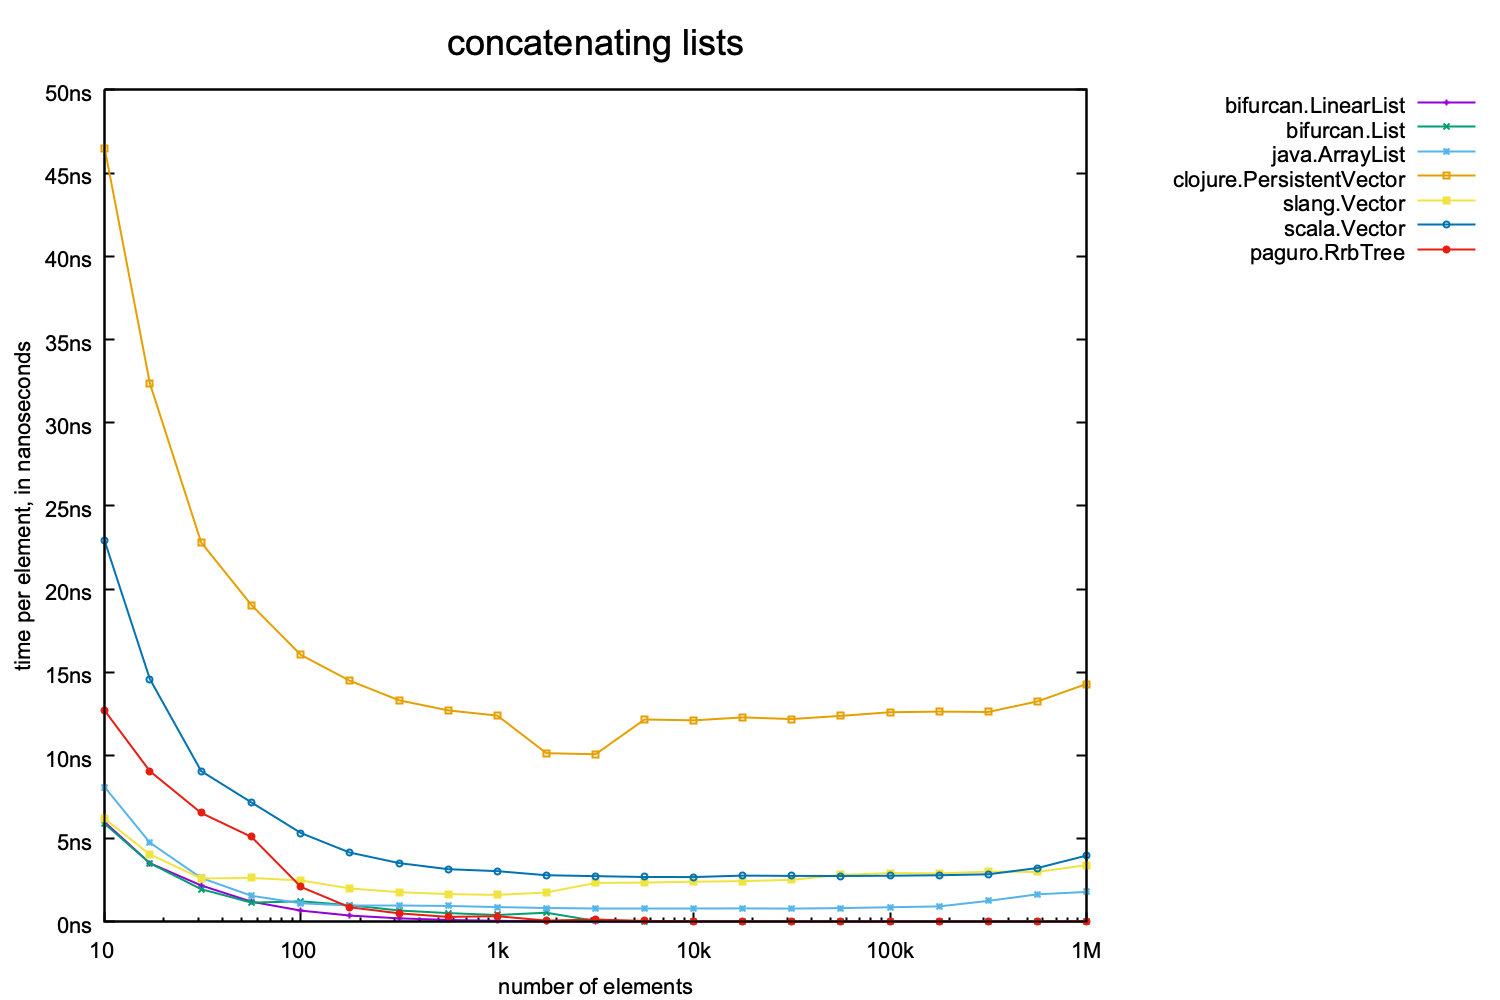
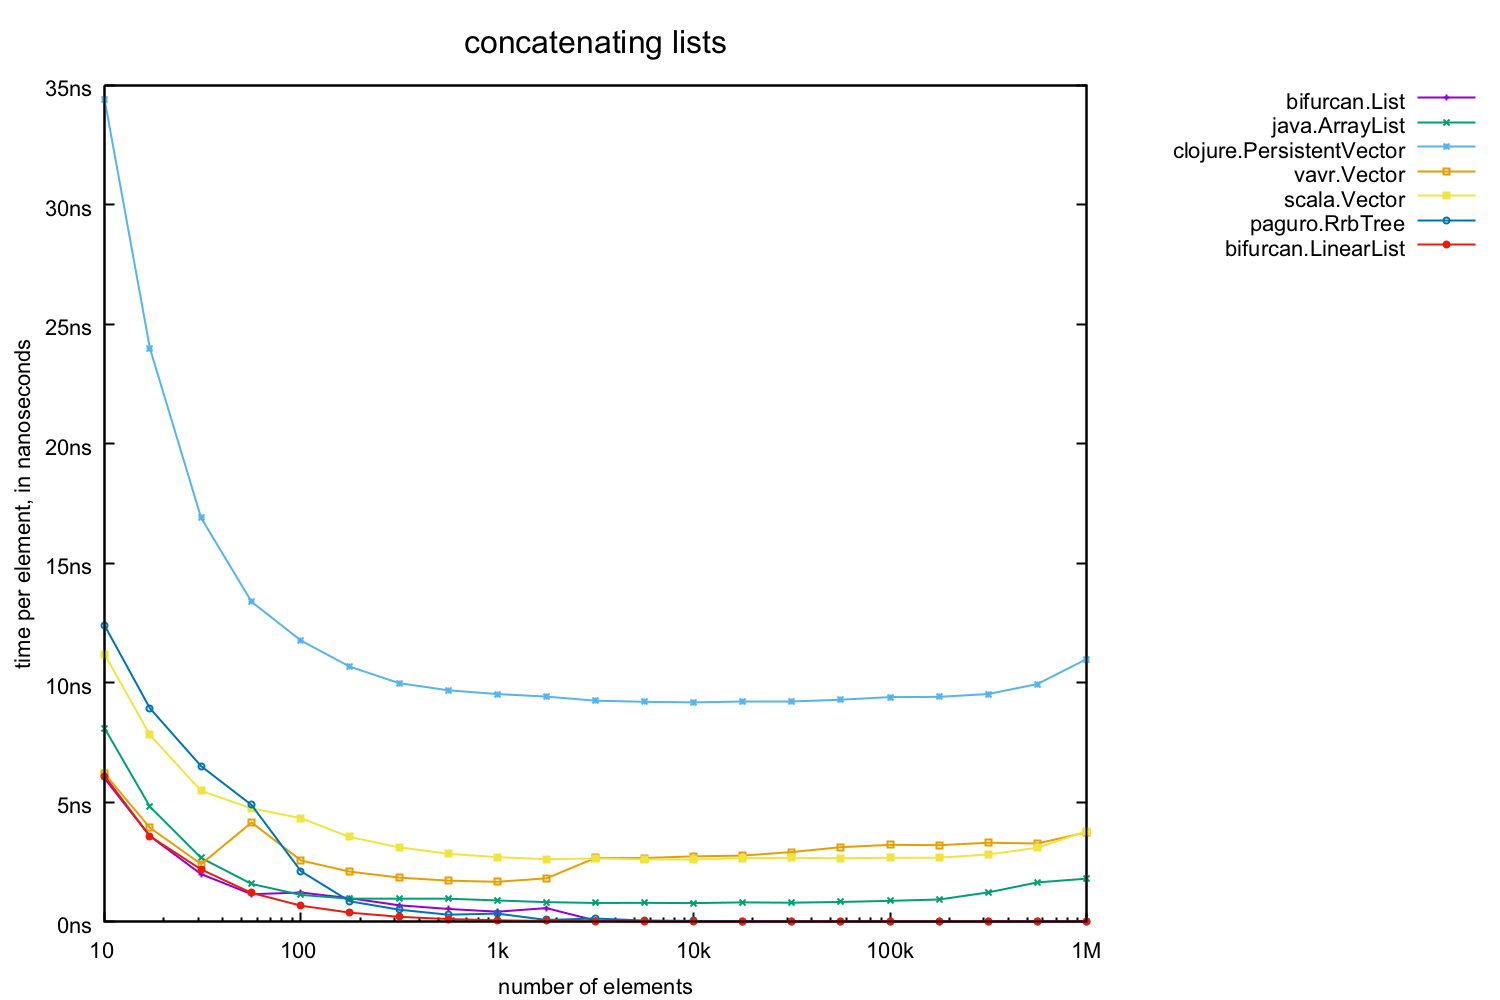
target latest vavr, scala, and do an editing pass on the comparison

diff --git a/doc/comparison.md b/doc/comparison.md
@@ -1,6 +1,6 @@
 # a comparison of functional data structures on the JVM
 
-There are a number of implementations of functional data structures (also called "persistent" or "immutable" data structures), but to date there has been no serious attempt to compare them.  Since I am obviously biased with respect to facets like API design, this document will limit itself to more objective properties: implementation details and performance.
+There are a number of implementations of functional data structures (also called "persistent" or "immutable" data structures) on the JVM, but to date there has been no serious attempt to compare them.  Since I am obviously biased with respect to facets such as API design, this document will limit itself to more objective properties: implementation details and performance.
 
 ## important concepts
 
@@ -24,37 +24,37 @@ If a given set of data has a predictable tree structure, we can speed up operati
 
 ### clojure
 
-Clojure uses Bagwell's HAMTs for its `PersistentHashMap` and `PersistentHashSet`, a closely related data structure for its `Persistent Vector`, and Red-Black Trees for its `PersistentTreeMap`.  Its performance is undercut by its custom equality semantics, which make hash calculation and equality checks more expensive than their Java equivalents.  
-
-### scala
-
-Scala uses its own implementations of the same data structures as Clojure.  We also include its `LongMap`, which is a special case sorted map structure based on Okasaki's [Fast Mergeable Int Maps](http://ittc.ku.edu/~andygill/papers/IntMap98.pdf).  Its performance is undercut by a lack of temporary mutability.
+[Clojure](https://github.com/clojure/clojure) uses Bagwell's HAMTs for its `PersistentHashMap` and `PersistentHashSet`, a closely related data structure for its `PersistentVector`, and [red-black trees](https://en.wikipedia.org/wiki/Red%E2%80%93black_tree) for its `PersistentTreeMap`.  Its performance is undercut by its custom equality semantics, which make hash calculation and equality checks more expensive than their Java counterparts.
 
 ### paguro
 
-Paguro is a port of Clojure's data structures, which cleans up the API and reverts back to Java's equality semantics.  It also provides an implementation of an [RRB Vector](https://infoscience.epfl.ch/record/169879/files/RMTrees.pdf), which provides `O(log N)` slices and concatenation.
-
+[Paguro](https://github.com/GlenKPeterson/Paguro) is a port of Clojure's data structures, which cleans up the API and reverts back to Java's equality semantics.  It also provides an implementation of an [RRB tree](https://infoscience.epfl.ch/record/169879/files/RMTrees.pdf), which provides `O(log N)` slices and concatenation.
+  
 ### capsule
 
-This is the reference implementation for [CHAMP maps](https://michael.steindorfer.name/publications/oopsla15.pdf), introduced by Steindorfer in 2015.  Unfortunately, the performance gains described in the paper are greatly exaggerated, as it is compared to Clojure's maps without accounting for the different equality semantics.  It does, however, provide meaningful improvements in interation and equality checks.
+[Capsule](https://github.com/usethesource/capsule) is the reference implementation for [CHAMP trees](https://michael.steindorfer.name/publications/oopsla15.pdf), introduced by Steindorfer in 2015.  Unfortunately, the performance gains described in the paper are exaggerated, as it is compared to Clojure's maps without accounting for the different equality semantics.  It does, however, provide a canonical structure and meaningful improvements in iteration performance.
 
-Unlike the other libraries included here, this library does not provide implementations of sorted maps or lists.
+Unlike the other libraries included here, this library only provides implementations of hash maps and sets.  
 
-### javaslang
+### scala
 
-This library is part of [Vavr](https://github.com/vavr-io/vavr), "an object-functional language extension to Java 11, which aims to increase code quality and readability."  It provides its own implementation of the same data structures used in Clojure, Scala, et al, but does not support temporary mutability.
+[Scala](https://github.com/scala/scala) uses CHAMP trees for its hash maps and sets, and otherwise uses similar data structures to Clojure.  We also include its `LongMap`, which is a special case sorted map structure based on Okasaki's [Fast Mergeable Int Maps](http://ittc.ku.edu/~andygill/papers/IntMap98.pdf).  Its performance is undercut by a lack of temporary mutability.
+
+### vavr
+
+[Vavr](https://github.com/vavr-io/vavr) is "an object-functional language extension to Java 11, which aims to increase code quality and readability."  It provides its own implementation of the same data structures used in Clojure, but does not support temporary mutability.
 
 ### pcollections
 
-This is the most venerable of all the functional data structure libraries.  Unfortunately, it is also by far the slowest, so much so that it could not be included in the graphs below.
+[PCollections](https://github.com/hrldcpr/pcollections) is the most venerable of all the functional data structure libraries.  Unfortunately, it is also by far the slowest, so much so that it is omitted from the graphs below.
 
 ### java
 
-For comparison, we include Java's mutable `HashMap`, `HashSet`, `TreeMap`, and `ArrayList` as a baseline for the performance of the other libraries.
+For comparison, I've included Java's mutable `HashMap`, `HashSet`, `TreeMap`, and `ArrayList` as a baseline for the performance of the other libraries.
 
 ### bifurcan
 
-My own library, which uses RRB vectors for its `List`, Red-Black trees for its `SortedMap`, and CHAMP trees for its `Map`, `IntMap`, and `Set`.  Also included are `LinearMap` and `LinearSet`, which are mutable data structures that share the same API as their immutable counterparts.
+[My own library](https://github.com/lacuna/bifurcan), which uses RRB trees for its `List`, red-black trees for its `SortedMap`, and CHAMP trees for its `Map`, `IntMap`, and `Set`.  Also included are `LinearMap` and `LinearSet`, which are mutable data structures that share the same API as their immutable counterparts.
 
 ## methdology
 
@@ -70,7 +70,7 @@ I have attempted to use the fastest code paths that each library provides, but c
 
 ![](../benchmarks/images/map_construct.png)
 
-The two mutable collections are significantly faster, while for smaller collections Clojure pays the cost of its equality semantics.  Javaslang and Scala are both a constant factor slower, due to their lack of temporary mutability.
+The two mutable collections are significantly faster, while for smaller collections Clojure pays the cost of its equality semantics.  Vavr and Scala are both a constant factor slower, due to their lack of temporary mutability.
 
 ---
 
@@ -90,7 +90,7 @@ Every library here is largely the same, other than Clojure which again pays a co
 
 ![](../benchmarks/images/map_equals.png)
 
-This compares two maps which differ by a single element.  Here Capsule is near-constant time, as it computes an incremental hash as elements are added and removed.  Bifurcan is moderately faster than the mutable collections, Slang is equivalent, and the rest are slower.
+This compares two maps which differ by a single element.  Capsule is effectively `O(1)` by computing an incremental hash as elements are added and removed (these benchmarks use objects with inexpensive hashes, and therefore do not capture the potential drawbacks of this approach).  Bifurcan is moderately faster than the mutable collections, Slang is equivalent, and the rest are slower.
 
 ---
 
@@ -104,7 +104,7 @@ This compares set operations on maps whose keys half-overlap.  Using its canonic
 
 Since every hash set shared an implementation with their respective hash map, they demonstrate the same performance as shown above.
 
-However, Scala has clearly optimized for set operations on their hash sets specifically, as they are comparable to Bifurcan across the above:
+Scala, however, has clearly optimized for set operations on their hash sets specifically, as they are comparable to Bifurcan across the board:
 
 ![](../benchmarks/images/sorted_map_union.png)
 ![](../benchmarks/images/sorted_map_intersection.png)
@@ -114,7 +114,7 @@ However, Scala has clearly optimized for set operations on their hash sets speci
 
 ![](../benchmarks/images/sorted_map_construct.png)
 
-With the exception of Scala's `LongMap` and Bifurcan's `IntMap`, every map shown here is implemented as a [red-black tree](https://en.wikipedia.org/wiki/Red%E2%80%93black_tree).  Because of their need for constant rebalancing, they don't lend themselves to temporary mutability, there's less performance disparities betewen the libraries.
+With the exception of Scala's `LongMap` and Bifurcan's `IntMap`, every map shown here is implemented as a red-black tree.  Because of their need for constant rebalancing, they don't lend themselves to temporary mutability, leading to fewer performance disparities than the hash maps above.
 
 ---
 
@@ -126,7 +126,7 @@ Iteration time is more or less constant across the board, with Scala faster than
 
 ![](../benchmarks/images/sorted_map_lookup.png)
 
-Since everything is a binary tree, everyone's peformance is comparable with the exception of Bifurcan's `IntMap`, which has adapted Okasaki's original binary tree into a 16-wide CHAMP tree.  
+Since everything is a binary tree, everyone's performance is comparable; the only exception is Bifurcan's `IntMap`, which has adapted Okasaki's original binary tree into a 16-wide CHAMP tree.  
 
 ---
 
@@ -140,13 +140,13 @@ There are few outliers here, other than Clojure due to its equality semantics, a
 ![](../benchmarks/images/sorted_map_intersection.png)
 ![](../benchmarks/images/sorted_map_difference.png)
 
-Here again we see that canonical structure makes set operations on Bifurcan's `IntMap` significantly faster.  Other than that, the only real surprise is that Paguro's union operation is much slower than Clojure's, for reasons I can't determine.
+Here again we see that canonical structure makes set operations on Bifurcan's `IntMap` significantly faster.  The only real surprise is that Paguro's union operation is much slower than Clojure's, despite an almost identical implementation.
 
 ## lists
 
 ![](../benchmarks/images/list_construct.png)
 
-List construction is fairly consistent across every collection, with the exception of Javaslang's which is significantly slower.
+List construction is fairly consistent across every collection, with the exception of Vavr's which is significantly slower.
 
 ---
 
@@ -158,7 +158,7 @@ The mutable collections, which are stored contiguously, are only moderately fast
 
 ![](../benchmarks/images/list_lookup.png)
 
-Unsurprisingly, the mutable collections are `O(1)` while their immutable counterparts are unmistakably `O(log N)`.
+The mutable collections are `O(1)` while their immutable counterparts are unmistakably `O(log N)`.
 
 ---
 
